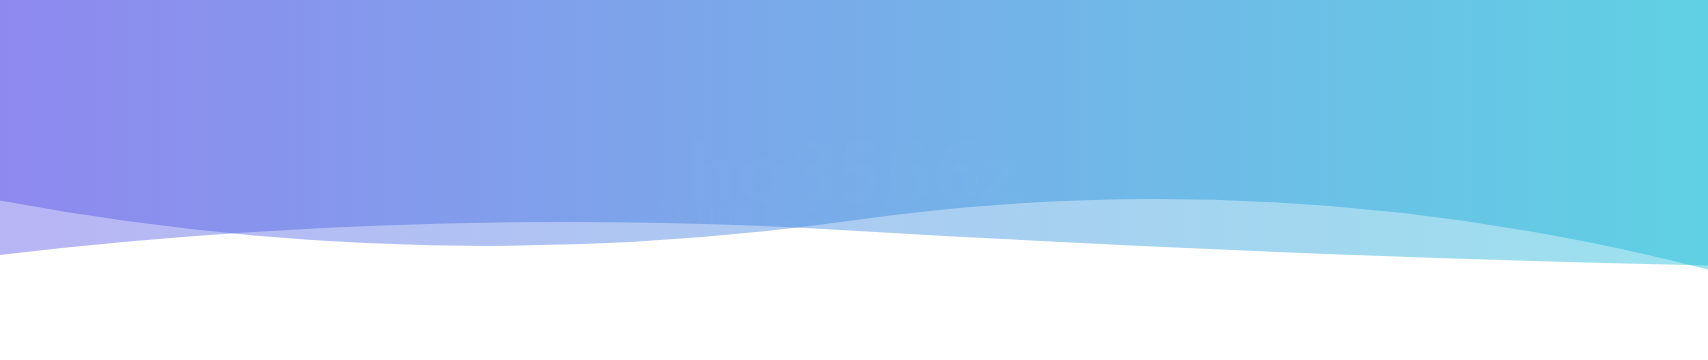
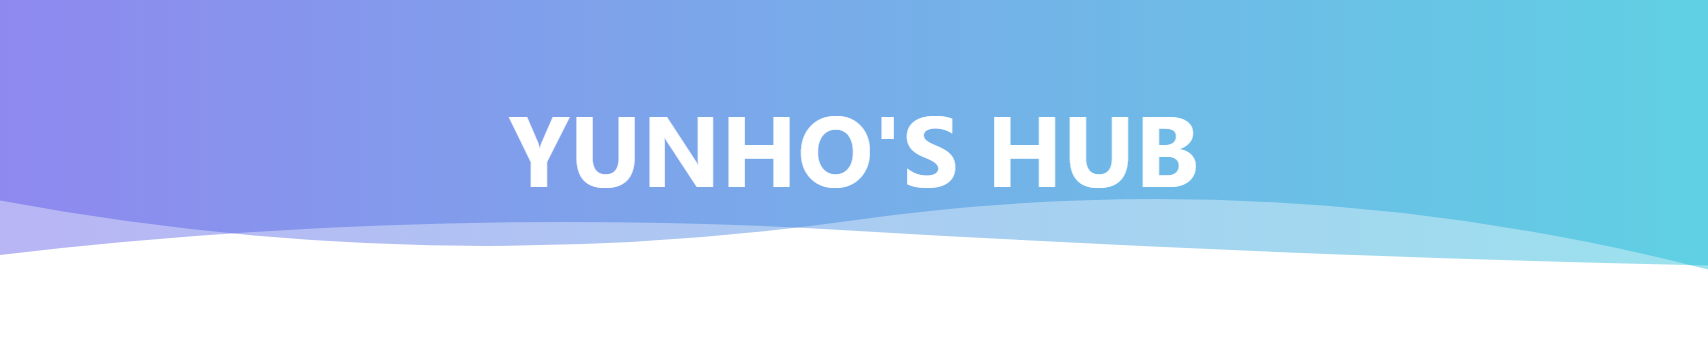
docs: 헤더를 YUNHO'S HUB로 변경, 프로젝트별 프레임워크 상세화

Changed region(s): [[0.2793, 0.3056, 0.7137, 0.5194]]

diff --git a/README.md b/README.md
@@ -17,7 +17,7 @@
 
 ## 📌 Projects
 
-### 🖥 white-eyes — 2차 프로젝트 (Spring Boot + Thymeleaf)
+### 🖥 white-eyes — 2차 프로젝트 (Spring Boot 4.1 · Spring Security · Spring Data JPA · Flyway · Spring Session JDBC · Gradle 멀티모듈 · Flask · Chart.js · Leaflet)
 
 - **Overview**: 드론 관제를 통한 유동인구 분석 시스템
 
@@ -68,7 +68,7 @@
 
 ---
 
-### 🖥 obsidian-shield — 1차 프로젝트 (Flask)
+### 🖥 obsidian-shield — 1차 프로젝트 (Flask · OpenCV · Ultralytics YOLO · InsightFace)
 
 - **Overview**: 동영상 분석 기반 실시간 신원 탐지 시스템
 
